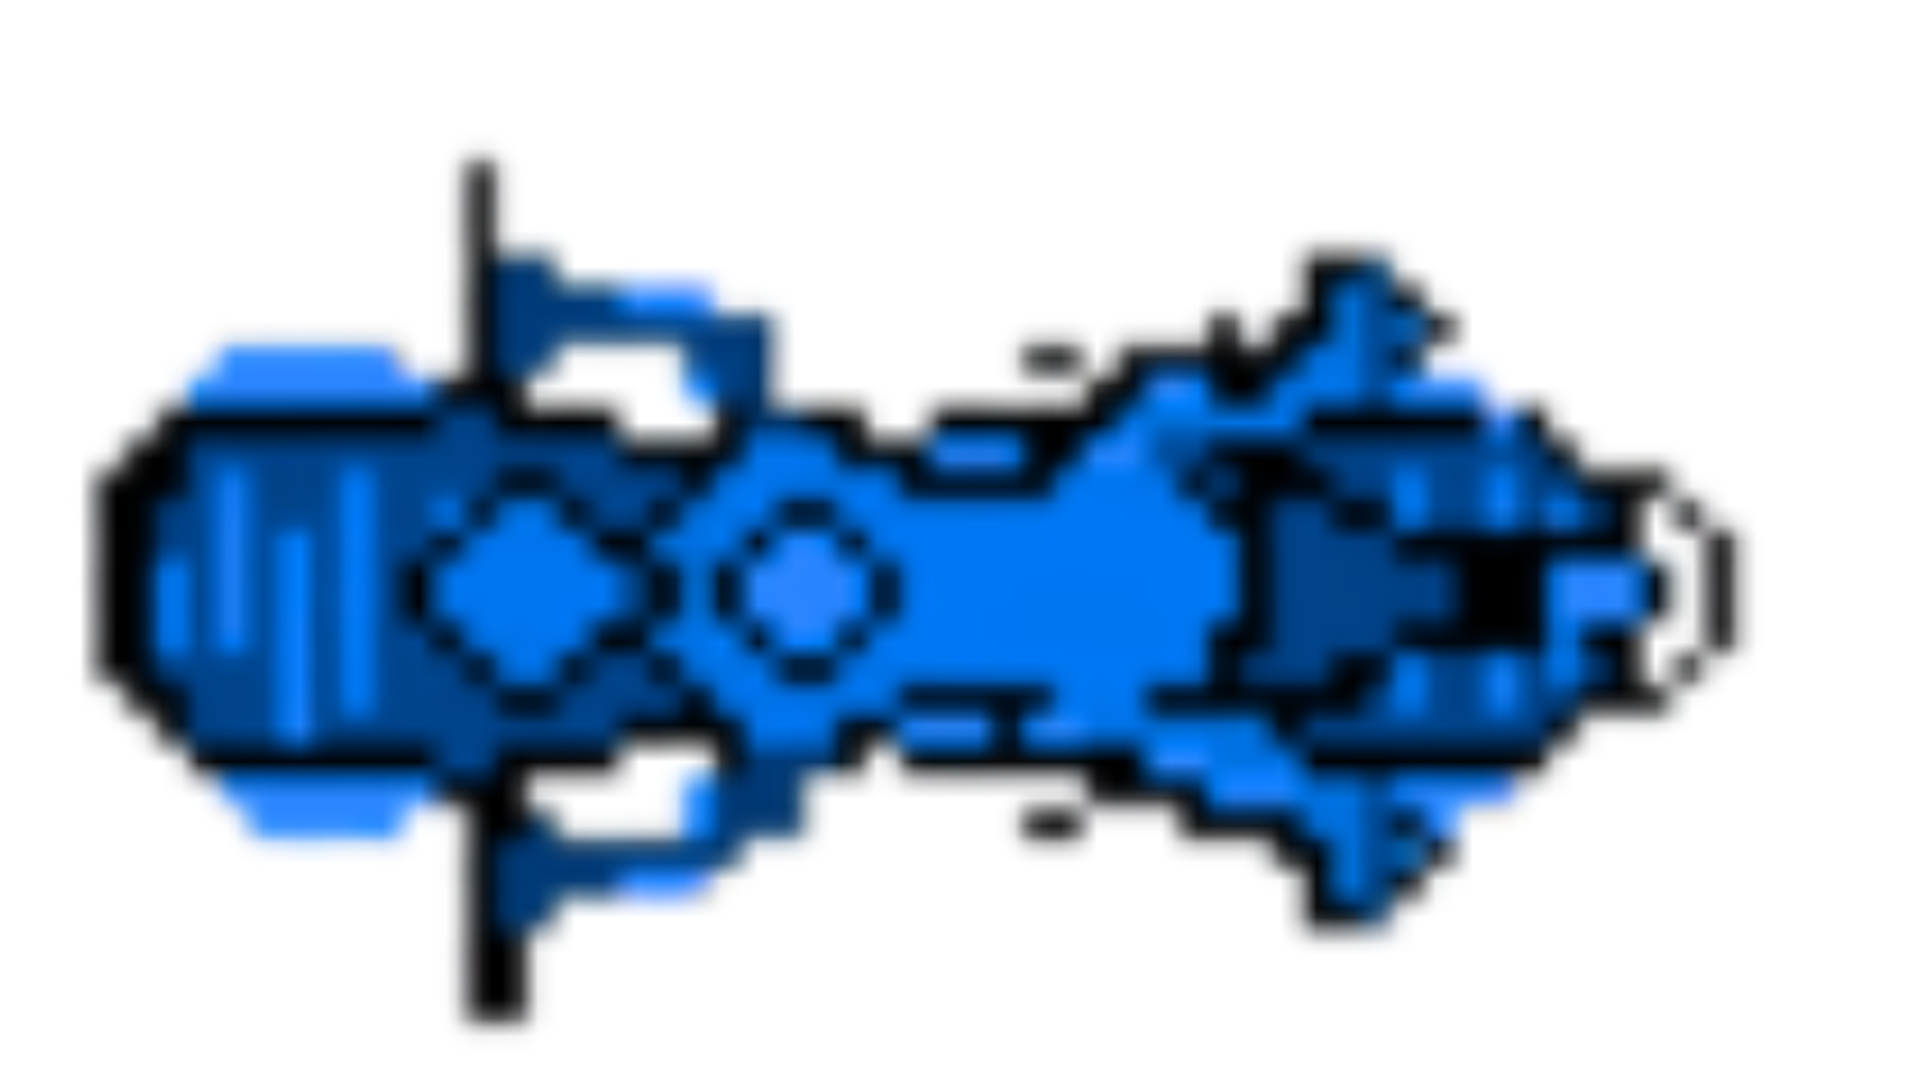
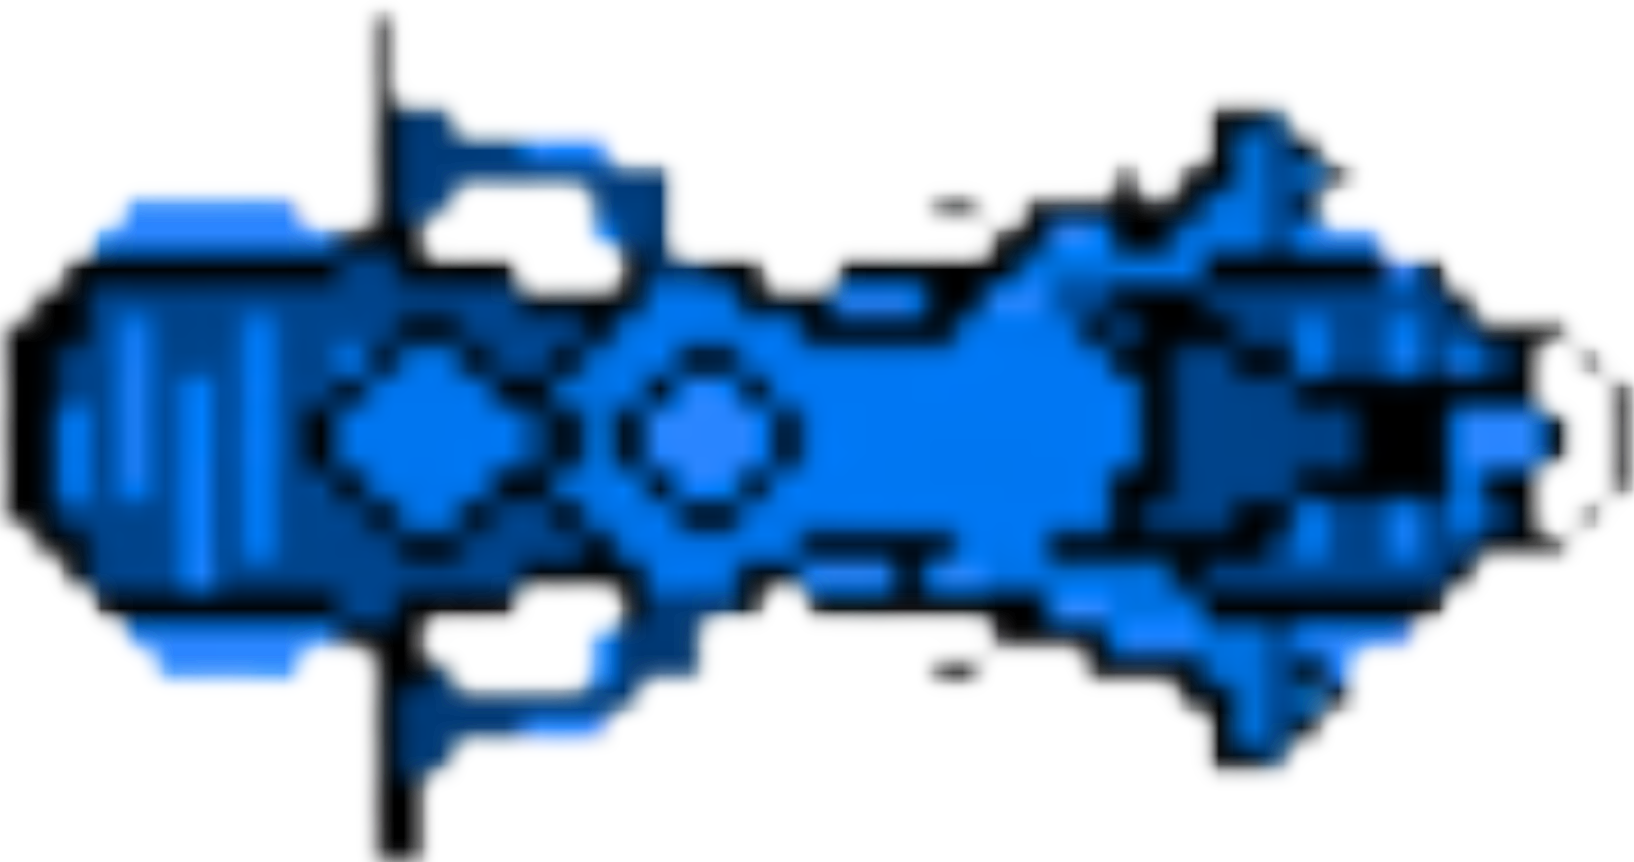
Verificar a direção e alinhar o sprite com o rect- linha 106

diff --git a/funcoes.py b/funcoes.py
@@ -49,11 +49,11 @@ assets = {
 
 moto_P1= assets['Moto_P1']
 moto_P1 = pygame.transform.scale(moto_P1, (MOTO_WIDTH, MOTO_HEIGHT))
-moto_P1_rect= moto_P1.get_rect(topleft=(posicao_inicial_x_P1, posicao_inicial_y_P1))
+moto_P1_rect= moto_P1.get_rect(center=(posicao_inicial_x_P1, posicao_inicial_y_P1))
 
 moto_P2=  assets['Moto_P2']
 moto_P2 = pygame.transform.scale(moto_P2, (MOTO_WIDTH, MOTO_HEIGHT))
-moto_P2_rect= moto_P2.get_rect(topleft=(posicao_inicial_x_P2, posicao_inicial_y_P2))
+moto_P2_rect= moto_P2.get_rect(center=(posicao_inicial_x_P2, posicao_inicial_y_P2))
 def update_state(state):
 
     #TRATAMENTO DE EVENTOS
@@ -103,7 +103,8 @@ def desenha_p1(window,assets, posicao_inicial_x_p1, posicao_inicial_y_p1, moto_a
     
     moto_P1= assets['Moto_P1']
     moto_P1 = pygame.transform.scale(moto_P1, (MOTO_WIDTH, MOTO_HEIGHT))
-    moto_P1_rect= moto_P1.get_rect(center=(posicao_inicial_x_p1, posicao_inicial_y_p1))
+    # Verificar a direção e alinhar o sprite com o rect !!!!!!!!!!!!!!!!!!!!!!!!!!!!!!!!!!!!!!!!!!!!!!!
+    moto_P1_rect= moto_P1.get_rect(center=(posicao_inicial_x_p1 + 15, posicao_inicial_y_p1))
     # Desenha a imagem na tela
     window.blit(moto_atual_P1, moto_P1_rect)
 

diff --git a/jogo.py b/jogo.py
@@ -75,13 +75,13 @@ while state["estado"]:
             rastro_list_P1 = []
             rastro_list_P2 = []
 
-        pygame.draw.rect(window, (255,255,255), moto_atual_P1_rect)
+        pygame.draw.rect(window, (255,255,255), moto_atual_P1_rect, )
         # centro_p1 = (posicao_atual_P1[0] + moto_atual_P1_rect.width/2, posicao_atual_P1[1] + moto_atual_P1_rect.height/2)
         rastro_list_P1 = update_rastro_P1(posicao_atual_P1, direcao_P1, rastro_list_P1)
         rastro_list_P2 = update_rastro_P1(posicao_atual_P2, direcao_P2, rastro_list_P2)
 
         for rastro_P1_pos in rastro_list_P1:
-            window.blit(rastro_skin_P1, rastro_P1_pos)
+            window.blit(rastro_skin_P1, [rastro_P1_pos[0]-5, rastro_P1_pos[1]-5])
         
         for rastro_P2_pos in rastro_list_P2:
             window.blit(rastro_skin_P2, rastro_P2_pos)

diff --git a/constantes.py b/constantes.py
@@ -1,4 +1,5 @@
 # IMPORTS
+import pygame
 # INFORMAÇÕES DA TELA 
 WIDTH, HEIGHT = 1920,1080
 
@@ -16,6 +17,8 @@ RED = (255, 0, 0)
 GREEN = (0, 255, 0)
 BLUE = (0, 0, 255)
 ORANGE = (255, 165, 0)
+#fonte
+FONTE= pygame.font.Font(None, 36)
 
 #TELAS
 TELA_INICIAL = 0
@@ -34,4 +37,9 @@ velocidade_motos= 3
 
 MOTO_WIDTH = 90
 MOTO_HEIGHT = 45
+
+# Variáveis do Timer e Scoreboard
+tempo_inicial = pygame.time.get_ticks()
+tempo_decorrido = 0
+scoreboard = []
 
